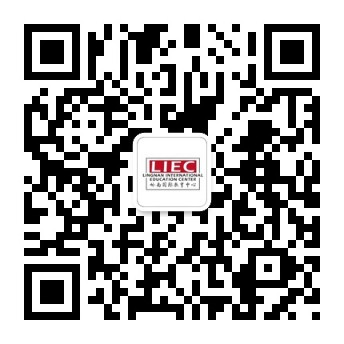
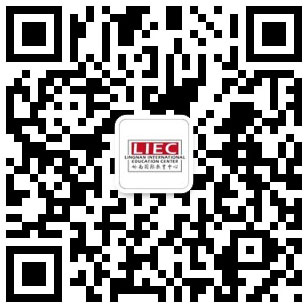
dasda

diff --git a/summer.html b/summer.html
@@ -47,7 +47,7 @@
 		    <div class="collapse navbar-collapse" id="bs-example-navbar-collapse-1">
 		      <ul class="nav navbar-nav">
 		       <li><a href="index.html">首页</a></li>
-               <li><a href="news.html">岭南Alevel国际课程</a></li>
+               <li><a href="news.html">岭南A levels国际课程</a></li>
 		        <li class="active"><a href="summer.html">夏令营</a></li>
 		        <li><a href="world.html">世界课堂</a></li>
 		        
@@ -87,7 +87,7 @@
 					<p class="para"> 橄榄球，堪称体育教育强国的主流载体。岭南国际橄榄球训练营秉承在“运动中成长”的理念，课程设计围绕传球技巧、专业美式分位置动作、战术练习、对抗赛等学习，在营期间会给每个营员建立个人档案，定期测试学员身体素质，室内、户外、体能三维一体课程融入英语互动课堂，通过训练和比赛，培养学生在橄榄球运动方面的理解与运用。锻炼学生的沟通、组织、领导、协作能力。<a href="http://mp.weixin.qq.com/s?__biz=MzA3NjEyNDkyNg==&mid=502354677&idx=1&sn=0644ea76b733f6d658516e485dd2f20d&scene=0&previewkey=l01kjy0QPh1drG309q7y0sNS9bJajjJKzz%2F0By7ITJA%3D#wechat_redirect">了解详情</a></p>
 				</div>
 				<div class="col-md-2 images_1_of_4 bg1 pull-right">
-					<img src="images/橄.jpg" width="207" height="206">
+					<img src="images/橄.jpg" width="100%" height="auto">
 				</div>
 				<div class="clearfix"></div>
 				<div class="read_more">
@@ -100,7 +100,7 @@
 					<p class="para">岭南国际足球训练营，以足球基本技术，足球常识，足球比赛常识，战术训练和指导，使学生能够更准确、迅速、扎实的掌握足球技术要领，让学生受到更正规，更专业足球训练。通过训练提升足球技术水平，并增强身体素质，提高自身免疫力，得到轻松的假期生活同时也得到自立的锻炼机会，在足球训练中充分享受足球带来的快感。<a href="http://mp.weixin.qq.com/s?__biz=MzA3NjEyNDkyNg==&mid=502354677&idx=2&sn=e89b51cd267c3ad4da0254f48c981db3&scene=0&previewkey=l01kjy0QPh1drG309q7y0sNS9bJajjJKzz%2F0By7ITJA%3D#wechat_redirect">了解详情</a></p></p>
 				</div>
 				<div class="col-md-2 images_1_of_4 bg1">
-					<img src="images/足.jpg" width="207" height="206">
+					<img src="images/足.jpg" width="100%" height="auto">
 				</div>
 				<div class="clearfix"></div>
 				<div class="read_more">
@@ -113,7 +113,7 @@
 					<p class="para">岭南国际自然拼读训练营是一个让孩子们学习英语变得简单、快乐、有趣的营地。自然拼读简称“Phonics",是自然形成的一种发音规则，主要教授英文字母与语音间的对应关系，通过该课程，孩子们能够更加规范化、技巧化、完整化、系统化得进行英语学习，进而从被动的听达到主动的拼，让孩子能够见词能读，听音识拼，记忆发音！<a href="http://mp.weixin.qq.com/s?__biz=MzA3NjEyNDkyNg==&mid=502354677&idx=3&sn=9e81b9a7c8683b33c2b1a4eca9ef99d1&scene=0&previewkey=l01kjy0QPh1drG309q7y0sNS9bJajjJKzz%2F0By7ITJA%3D#wechat_redirect">了解详情</a></p>
 				</div>
 				<div class="col-md-2 images_1_of_4 bg1">
-					<img src="images/自然.jpg" width="207" height="206">
+					<img src="images/自然.jpg" width="100%" height="auto">
 				</div>
 				
 				<div class="read_more">
@@ -126,7 +126,7 @@
 					<p class="para">如何帮助初中生掌握有效的英语学习策略，提高学习效率？英语词汇学习是核心。词汇是语言学习的基础，掌握一定的词汇量是学生提高语言运用能力的前提。岭南国际英语词汇突击营通过强化单词记忆，词汇游戏，通关训练，真题测试，延伸到句型，语法等互动教学，从而提高对英语学习的兴趣，锻炼其口头表达和书面表达的能力。<a href="http://mp.weixin.qq.com/s?__biz=MzA3NjEyNDkyNg==&mid=502354677&idx=4&sn=06074249f0a76ca4f3d40bde8d275af5&scene=0&previewkey=l01kjy0QPh1drG309q7y0sNS9bJajjJKzz%2F0By7ITJA%3D#wechat_redirect">了解详情</a></p></p>
 				</div>
 				<div class="col-md-2 images_1_of_4 bg1">
-					<img src="images/英语.jpg" width="207" height="206">
+					<img src="images/英语.jpg" width="100%" height="auto">
 				</div>
 				<div class="clearfix"></div>
 				<div class="read_more">
@@ -139,7 +139,7 @@
 					<p class="para">岭南国际数学探究营利用小学数学教材中渗透的数学思维训练内容，开展初步的思维专题训练，提高学生解决复杂数学问题的能力。激发学员的学习兴趣，注重培养学生的思维能力，点拨学生解决数学问题的思路，开阔学生的知识视野。<a href="http://mp.weixin.qq.com/s?__biz=MzA3NjEyNDkyNg==&mid=502354677&idx=5&sn=e24a6f43ba98c063c8376c27d1c42e2b&scene=0&previewkey=l01kjy0QPh1drG309q7y0sNS9bJajjJKzz%2F0By7ITJA%3D#wechat_redirect">了解详情</a></p>
 				</div>
 				<div class="col-md-2 images_1_of_4 bg1">
-					<img src="images/数学.jpg" width="207" height="206">
+					<img src="images/数学.jpg" width="100%" height="auto">
 				</div>
 				<div class="clearfix"></div>
 				<div class="read_more">
@@ -152,7 +152,7 @@
 					<p class="para">岭南国际语言能力训练营由英国教育专家领衔22年资深少儿戏剧教学经验的英国戏剧导师亲自带领，运用戏剧表演与演讲、英语游戏等形式，培养学生的创意想象力，语言表达能力、人际交往与沟通能力；全程纯正英语浸泡式学习交流环境，让孩子在国际化的氛围中勇于表现自我，发挥潜能，提升学习英语的兴趣和国际语言运用能力。<a href="http://mp.weixin.qq.com/s?__biz=MzA3NjEyNDkyNg==&mid=502354677&idx=6&sn=8dffca67028160f30a31c193541b062b&scene=0&previewkey=l01kjy0QPh1drG309q7y0sNS9bJajjJKzz%2F0By7ITJA%3D#wechat_redirect">了解详情</a></p>
 				</div>
 				<div class="col-md-2 images_1_of_4 bg1">
-					<img src="images/能力.jpg" width="207" height="206">
+					<img src="images/能力.jpg" width="100%" height="auto">
 				</div>
 				<div class="clearfix"></div>
 				<div class="read_more">
@@ -165,7 +165,7 @@
 					<p class="para"> 将童话演绎，将经典重现，岭南国际音乐剧魔力营重磅开营！这里拥有伦敦西区专业戏剧演员为孩子编排一出经典特色的戏剧，糅合音乐、戏剧、舞蹈、电影和英语元素，带给学生一场难忘的视听盛宴！在这里，孩子的英语，表达以及自信都得以提升，自身综合素质也因艺术追求的高要求、高标准而得到升华！在这里，孩子将看到童话般美丽而奇妙的世界。<a href="http://mp.weixin.qq.com/s?__biz=MzA3NjEyNDkyNg==&mid=502354677&idx=7&sn=b5b45e4f69f95a48847780c887f259bc&scene=0&previewkey=l01kjy0QPh1drG309q7y0sNS9bJajjJKzz%2F0By7ITJA%3D#wechat_redirect">了解详情</a></p>
 				</div>
 				<div class="col-md-2 images_1_of_4 bg1">
-					<img src="images/音乐.jpg" width="207" height="206">
+					<img src="images/音乐.jpg" width="100%" height="auto">
 				</div>
 				<div class="clearfix"></div>
 				<div class="read_more">

diff --git a/index.html b/index.html
@@ -83,7 +83,7 @@
 		    <div class="collapse navbar-collapse" id="bs-example-navbar-collapse-1">
 		      <ul class="nav navbar-nav">
 		        <li class="active"><a href="index.html">首页</a></li>
-                <li><a href="news.html">岭南Alevel国际课程</a></li>
+                <li><a href="news.html">岭南A levels国际课程</a></li>
 		        <li><a href="summer.html">夏令营</a></li>
 		        <li><a href="world.html">世界课堂</a></li>
                  <li><a href="tea.html">茶艺馆</a></li>
@@ -108,7 +108,7 @@
 				<h3 class="da-link"><a href="world.html" class="fa-btn btn-1 btn-1e">了解详情</a></h3>
 			</div>
 			<div class="da-slide">
-				<h2>岭南Alevel国际课程</h2>
+				<h2>岭南A levels国际课程</h2>
 				<p>A levels课程体系源自英国，是英语世界最成熟的高中学历课程体系之一，有60多年的历史。目前已成为全球范围内被160个国家上万所正规大学认可的大学入学考试证书，是进入世界名牌大学的“黄金标准”。A levels在全球得到广泛的承认。</span></p>
 				<h3 class="da-link"><a href="news.html" class="fa-btn btn-1 btn-1e">了解详情</a></h3>
 			</div>
@@ -141,26 +141,26 @@
 </div>
 		<div class="main row">
 			<div class="col-md-3 images_1_of_4 text-center">
-            <p><img src="images/夏令营宣传册.jpg" width="207" height="206"></p>
+            <p><img src="images/夏令营宣传册.jpg" width="100%" height="auto"></p>
 			  <h4><a href="summer.html">2016年夏令营</a> </h4>
 				<p class="para">岭南国际夏令秉承着“实践出真知”的教育理念，从生活技能、提升情商、体能训练、团队协作、学科知识等方面训练，让中小学生能够走出课堂，摆脱僵化的教育束缚，让学生在体验中学得自立，在玩中学得知识，在乐趣中收获成长！<a href="summer.html">了解详情</a></p>
 				<a href="https://jinshuju.net/f/XNBEqF" class="fa-btn btn-1 btn-1e">立即报名</a>
 			</div>
 			<div class="col-md-3 images_1_of_4 bg1 text-center">
-				<img src="images/三.jpg" width="207" height="206">
+				<img src="images/world.jpg" width="100%" height="auto">
 			  <h4><a href="world.html">世界课堂</a></h4>
 				<p class="para">世界课堂是一项融实践、体验、分享，为激发孩子内驱力，启发其主动探索与求知欲望,它是科学行走式课堂。我们将完整的教育循环设计，集系统自然生态、艺术人文、极限挑战等课程学习，拓宽学生国际视野，培养独立思考能力。<a href="world.html">了解详情</a></p>
 				<a href="world.html" class="fa-btn btn-1 btn-1e">预约国家</a>
 			</div>
 			<div class="col-md-3 images_1_of_4 bg1 text-center">
-				<img src="images/A.jpg" width="207" height="206">
+				<img src="images/A.jpg" width="100%" height="auto">
 				<h4><a href="news.html
-                ">岭南Alevel国际课程</a></h4>
+                ">A levels国际课程</a></h4>
 				<p class="para">A levels课程体系源自英国，是英语世界最成熟的高中学历课程体系之一，有60多年的历史。目前已成为全球范围内被160个国家上万所正规大学认可的大学入学考试证书，是进入世界名牌大学的“黄金标准”。A levels在全球得到广泛的承认。<a href="news.html">了解详情</a></p>
 				<a href="news.html" class="fa-btn btn-1 btn-1e">立即报名</a>
 			</div>		
 			<div class="col-md-3 images_1_of_4 bg1 text-center">
-			  <img src="images/茶.jpg" width="207" height="206">
+			  <img src="images/茶.jpg" width="100%" height="auto">
 			  <h4><a href="tea.html">茶艺馆</a></h4>
 				<p class="para"> 岭南茶艺馆LINGNAN Tea  House茶艺馆是隶属于岭南国际教育中心旗下的部门之一，位置坐落于图书馆和湖心小岛之间，环境优雅宁静，内置空调与免费wifi，设有免费图书区可供阅览，是大家品茗与学习的最佳场所，我们期待您的到来！</p>
 				<a href="tea.html" class="fa-btn btn-1 btn-1e">预约活动</a>

diff --git a/world.html b/world.html
@@ -47,7 +47,7 @@
 		    <div class="collapse navbar-collapse" id="bs-example-navbar-collapse-1">
 		      <ul class="nav navbar-nav">
 		       <li><a href="index.html">首页</a></li>
-               <li><a href="news.html">岭南Alevel国际课程</a></li>
+               <li><a href="news.html">岭南A levels国际课程</a></li>
 		        <li><a href="summer.html">夏令营</a></li>
 		        <li class="active"><a href="world.html">世界课堂</a></li>
 		        
@@ -88,7 +88,7 @@
 					<p class="para">世界课堂·英国站｜PGL营，家长可与孩子一同体验英伦风情，在孩子独立参加营地课程的同时，家长也将开启英国文化与教育的探访之旅，最后孩子与家长在世界顶级学府——剑桥大学汇合，同住剑桥大学，感受百年名校的震撼与魅力。协作能力。</p>
 				</div>
 				<div class="col-md-2 images_1_of_4 bg1 pull-right">
-					<img src="images/p.jpg" width="207" height="206">
+					<img src="images/p.jpg" width="100%" height="auto">
 				</div>
 				<div class="clearfix"></div>
 				<div class="read_more">
@@ -101,7 +101,7 @@
 					<p class="para">丰富，趣味，开放的英国教育远近驰名，启发性教学给人以无限想象空间，而这，最容易获得知识启发的，莫过于英国的课堂！从意味深长的书斋到变幻莫测的公式，到英国人擅长的戏剧艺术，文学艺术，科学艺术等等都进行延伸发展。</p>
 				</div>
 				<div class="col-md-2 images_1_of_4 bg1">
-					<img src="images/全.jpg" width="207" height="206">
+					<img src="images/全.jpg" width="100%" height="auto">
 				</div>
 				<div class="clearfix"></div>
 				<div class="read_more">
@@ -114,7 +114,7 @@
 					<p class="para">GESE(Graded Examinations in Spoken English)是由Trinity College London伦敦三一学院权威推出专为非英语国家人士设计的纯英语口语等级考试体系，三一英语考试是最具影响力及受国际认可的一项针对英语语言能力的考试，该考试适合不同年龄及水平程度的人士，考试成绩被英国资格及课程全国委员会（QCA）认可，三一口语考试成绩可以与雅思、托福的考试成绩比例换算。GESE共有12个级别，其中1-6级是非常适合孩子的，这是现有的英语考试中的适合孩子考试之一。</p>
 				</div>
 				<div class="col-md-2 images_1_of_4 bg1">
-				<img src="images/三.jpg" width="207" height="206">
+				<img src="images/三.jpg" width="100%" height="auto">
 				</div>
 				<div class="clearfix"></div>
 				<div class="read_more">
@@ -127,7 +127,7 @@
 					<p class="para">世界课堂·美国站｜全真课堂，直接插班入读，与美国当地孩子同质同步学习和交流，体验不同的生活观念和处事态度，锻炼自己的沟通能力，深入了解美国文化。课程采用浸入式教学法,让学生快速融入美式全真课堂教育。学习期间学生将会寄宿于美国家庭，通过与美国家庭的“零距离”接触，让学生迅速感受并融入当地生活方式。畅游迪斯尼乐园，领略童话世界的惊险与绮丽；莱坞大道、中国戏院、环球影城主题公园，亲临大片拍摄现场。这个暑假，Simon老师带你来“真”的！</p>
 				</div>
 				<div class="col-md-2 images_1_of_4 bg1">
-					<img src="images/美.jpg" width="207" height="206">
+					<img src="images/美.jpg" width="100%" height="auto">
 				</div>
 				<div class="clearfix"></div>
 				<div class="read_more">

diff --git a/about.html b/about.html
@@ -46,7 +46,7 @@
 		    <div class="collapse navbar-collapse" id="bs-example-navbar-collapse-1">
 		      <ul class="nav navbar-nav">
 		      <li><a href="index.html">首页</a></li>
-               <li><a href="news.html">岭南Alevel国际课程</a></li>
+               <li><a href="news.html">岭南A levels国际课程</a></li>
 		        <li><a href="summer.html">夏令营</a></li>
 		        <li><a href="world.html">世界课堂</a></li>
 		       
@@ -90,7 +90,7 @@
                     <h5>2.世界课堂负责老师：13640829404(吴老师)</h5>
                     <h5>3.A levels负责老师：18565346786(曾老师)</h5>
                     <h5>4.岭南国际教育中心微信公众号：   gdlngj</h5>
-                    <img src="images/二维码.jpg" width="344" height="344">
+                    <img src="images/二维码.jpg" width="306" height="306">
 			  </div>
 				<div class="clearfix"></div>
 				<div class="read_more"></div>	

diff --git a/tea.html b/tea.html
@@ -47,7 +47,7 @@
 		    <div class="collapse navbar-collapse" id="bs-example-navbar-collapse-1">
 		      <ul class="nav navbar-nav">
 		       <li><a href="index.html">首页</a></li>
-               <li><a href="news.html">岭南Alevel国际课程</a></li>
+               <li><a href="news.html">岭南A levels国际课程</a></li>
 		        <li><a href="summer.html">夏令营</a></li>
 		        <li><a href="world.html">世界课堂</a></li>
 		        
